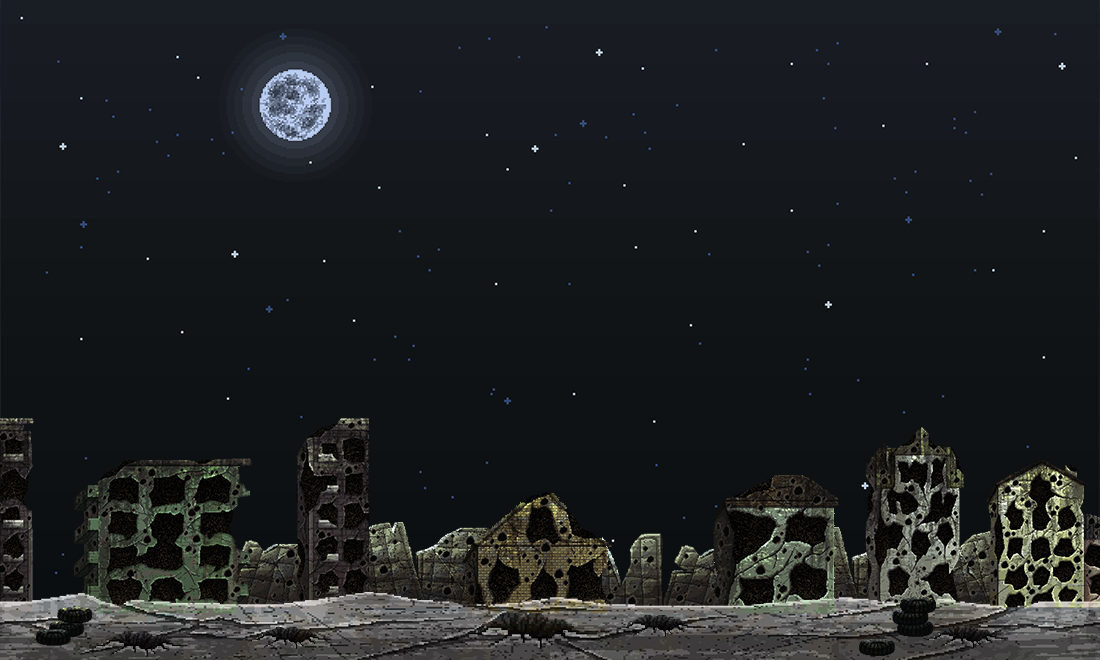
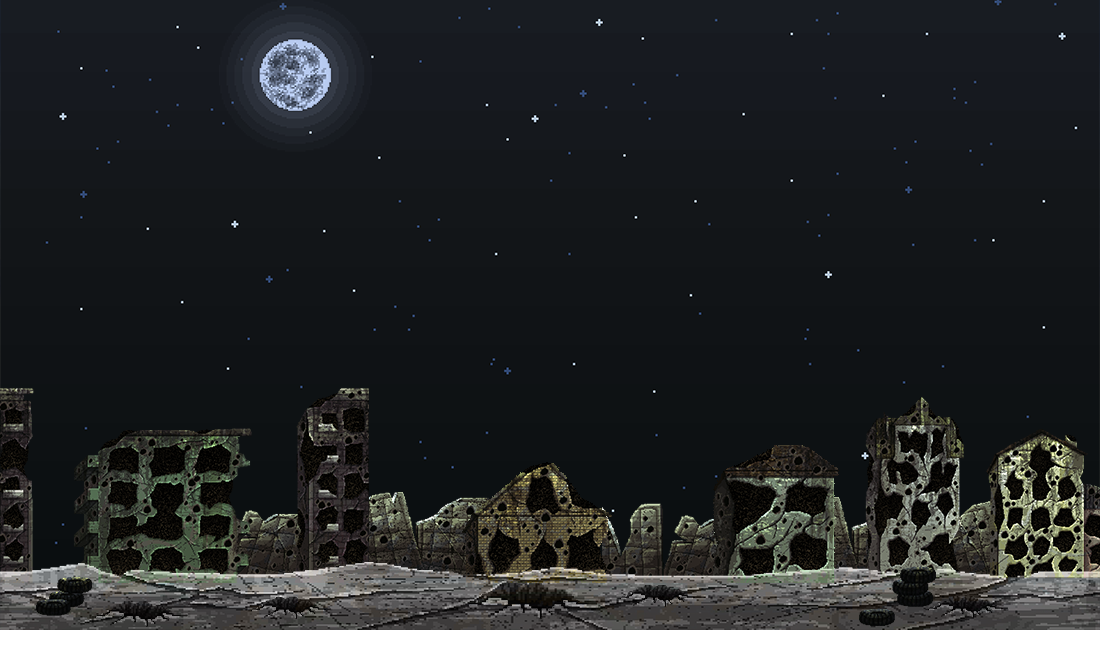
update

Changed region(s): [[0.0, 0.5758, 1.0, 1.0], [0.2164, 0.0303, 0.3091, 0.2424]]

diff --git a/levels.py b/levels.py
@@ -20,7 +20,7 @@ class Level:
         self.description="Level Play"
         self.number=0
         self.waves=[]
-        self.background_path='src\\img\\backgrounds\\background11.png' # defult path
+        self.background_path='src\\img\\backgrounds\\background1.png' # defult path
         self.tutorial=False
         self.tutorial_image=''
     
@@ -67,12 +67,12 @@ class Level_1(Level):
         self.description='Level 1'
         self.number=1
         self.chek_lock(self.number)
-        self.background_path='src\\img\\backgrounds\\background4.png'
+        self.background_path='src\\img\\backgrounds\\background1.png'
         self.waves=[]
         self.wave_1=[2,0,0,0]
         self.wave_2=[2,0,0,0]
         self.waves.extend([self.wave_1,self.wave_2])
-        self.tutorial=True
+        
         self.tutorial_image='src\\img\\tutorials\\tuturial1.png'
 
     
@@ -103,7 +103,9 @@ class Level_3(Level):
         super().__init__()
         self.name="Level 3"
         self.number=3
+        self.background_path='src\\img\\backgrounds\\background3.png'
         self.chek_lock(self.number)
+        self,
         self.wave_1=[0,1,0,0]
         self.wave_2=[0,2,0,0]
         self.wave_2=[2,0,0,0]
@@ -117,6 +119,7 @@ class Level_4(Level):
         super().__init__()
         self.name="Level 3"
         self.number=4
+        self.background_path='src\\img\\backgrounds\\background4.png'
         self.wave_1=[0,0,4,0]
         self.wave_2=[1,2,3,2]
 
@@ -129,6 +132,7 @@ class Level_5(Level):
         super().__init__()
         self.name="Level 3"
         self.number=5
+        self.background_path='src\\img\\backgrounds\\background5.png'
         self.wave_1=[3,2,0,0]
         self.wave_2=[0,0,0,5]
         self.wave_3=[6,1,2,0]
@@ -142,6 +146,11 @@ class Level_6(Level):
         self.name="Level 3"
         self.number=6
         self.chek_lock(self.number)
+        self.background_path='src\\img\\backgrounds\\background6.png'
+        self.waves=[]
+        self.wave_1=[2,0,0,0]
+        self.wave_2=[2,0,0,0]
+        self.waves.extend([self.wave_1,self.wave_2])
     
 
 class Level_7(Level):
@@ -150,6 +159,11 @@ class Level_7(Level):
         self.name="Level 3"
         self.number=7
         self.chek_lock(self.number)
+        self.background_path='src\\img\\backgrounds\\background7.png'
+        self.waves=[]
+        self.wave_1=[2,0,0,0]
+        self.wave_2=[2,0,0,0]
+        self.waves.extend([self.wave_1,self.wave_2])
     
 
 class Level_8(Level):
@@ -158,7 +172,11 @@ class Level_8(Level):
         self.name="Level 3"
         self.number=8
         self.chek_lock(self.number)
-    
+        self.background_path='src\\img\\backgrounds\\background8.png'
+        self.waves=[]
+        self.wave_1=[2,0,0,0]
+        self.wave_2=[2,0,0,0]
+        self.waves.extend([self.wave_1,self.wave_2])    
 
 class Level_9(Level):
     def __init__(self):
@@ -166,7 +184,11 @@ class Level_9(Level):
         self.name="Level 3"
         self.number=9
         self.chek_lock(self.number)
-    
+        self.background_path='src\\img\\backgrounds\\background9.png'
+        self.waves=[]
+        self.wave_1=[2,0,0,0]
+        self.wave_2=[2,0,0,0]
+        self.waves.extend([self.wave_1,self.wave_2])    
 
 class Level_10(Level):
     def __init__(self):
@@ -174,7 +196,11 @@ class Level_10(Level):
         self.name="Level 3"
         self.number=10
         self.chek_lock(self.number)
-        
+        self.background_path='src\\img\\backgrounds\\background10.png'
+        self.waves=[]
+        self.wave_1=[2,0,0,0]
+        self.wave_2=[2,0,0,0]
+        self.waves.extend([self.wave_1,self.wave_2])       
 
 levels=[]
 a=Level_1()
